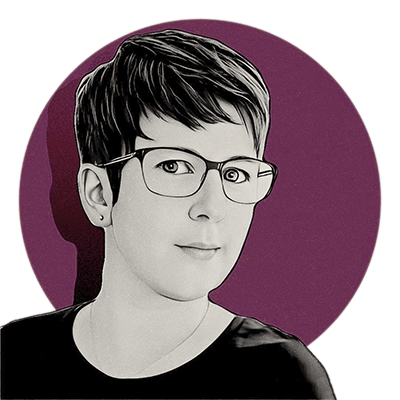
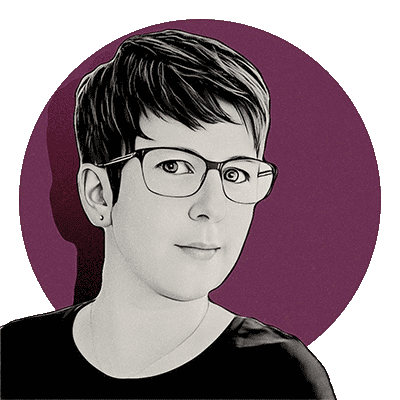
starting to optimise images

diff --git a/src/styles/global.css b/src/styles/global.css
@@ -301,7 +301,8 @@ section > article ul {
 	flex: 3;
 }
 .welcome img {
-	max-height: 20rem;
+	max-height: 16rem;
+	aspect-ratio: 1;
 	margin: 0 auto;
 	border-radius: 50%;
 	filter: brightness(1.2);

diff --git a/src/pages/blog/100days.md b/src/pages/blog/100days.md
@@ -3,7 +3,7 @@ layout: "../../layouts/BlogPost.astro"
 title: "#100DaysOfCode"
 description: "Copying and pasting my tweets on the matter as I slowly make my way non-consecutively through the 100 days."
 pubDate: "Sep 21 2022"
-heroImage: "/images/blog/twitter.png"
+heroImage: "/images/blog/twitter.jpg"
 caption: "Profile picture of my twitter account"
 ---
 
